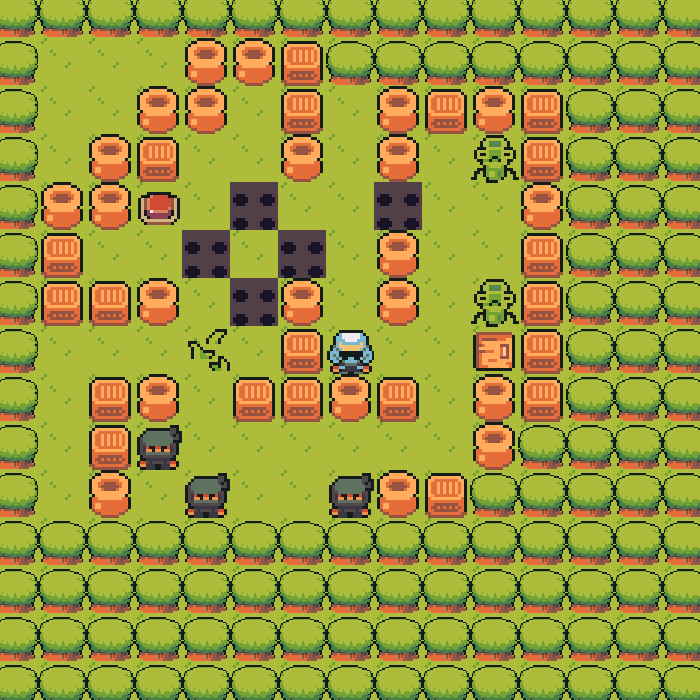
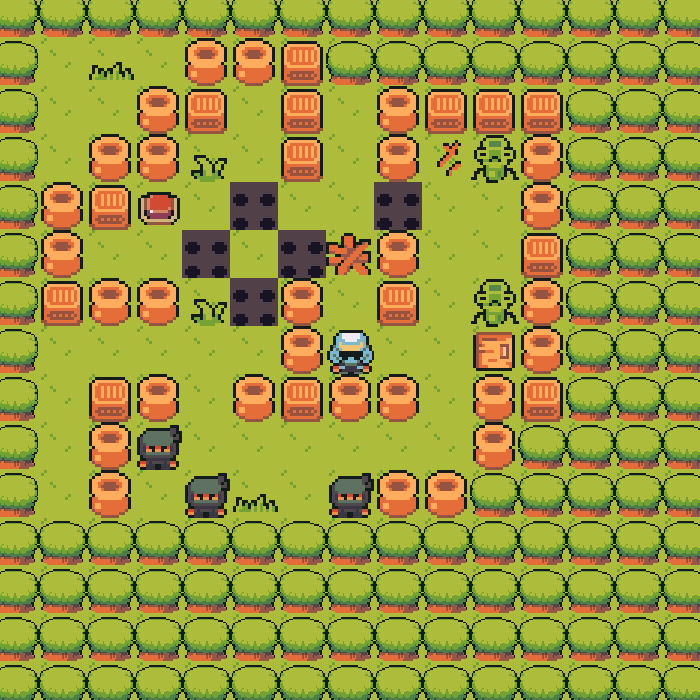
ladders

diff --git a/game.py b/game.py
@@ -17,6 +17,8 @@ import mixer as mx
 class Game:
     def __init__(self):
         pygame.init()
+        pygame.joystick.init()
+        self.joysticks = [pygame.joystick.Joystick(i) for i in range(pygame.joystick.get_count())]
         self.display = pygame.display
         self.display.set_caption('Samurai Storm')
         self.display.set_icon(pygame.image.load('Data/sprites/icon.png'))
@@ -67,6 +69,7 @@ class Game:
         self.indLevel = 0
 
     def run(self, name_level):
+        self.joysticks[0].init()
         self.enemies = []
         self.coordSpikes = []
         self.camera = Camera(self)
@@ -82,7 +85,7 @@ class Game:
         shurikenEventType = spikesEventType + 1
         pygame.time.set_timer(enemyEventType, 500)
         pygame.time.set_timer(spikesEventType, 500)
-        pygame.time.set_timer(shurikenEventType, 100)
+        pygame.time.set_timer(shurikenEventType, 200)
         self.level, self.player, self.enemies, self.coordSpikes, self.level_x, self.level_y = \
             functions.generate_level(level_list, self, False)
         # изменяем ракурс камеры
@@ -129,6 +132,17 @@ class Game:
                             if i.coord == self.player.coord:
                                 i.use()
                                 break
+                if event.type == pygame.JOYBUTTONDOWN:
+                    if event.button == 0:
+                        for i in self.ladders_group:
+                            if i.coord == self.player.coord:
+                                i.use()
+                                break
+                    if event.button == 7:
+                        if self.activeMenu:
+                            self.closeMenu()
+                        else:
+                            self.openMenu()
             # изменяем ракурс камеры
             self.camera.update(self.player)
             # обновляем положение всех спрайтов
@@ -171,6 +185,8 @@ class Game:
                 elif event.type == pygame.KEYDOWN or \
                         event.type == pygame.MOUSEBUTTONDOWN:
                     return  # начинаем игру
+                if event.type == pygame.JOYBUTTONDOWN or event.type == pygame.JOYHATMOTION:
+                    return
             pygame.display.flip()
             self.clock.tick(self.fps)
 
@@ -224,6 +240,17 @@ class Game:
                         self.rightBtn()
                     if event.key == pygame.K_LEFT:
                         self.leftBtn()
+                if event.type == pygame.JOYHATMOTION:
+                    x, y = self.joysticks[0].get_hat(0)
+                    if x == 1:
+                        self.rightBtn()
+                    if x == -1:
+                        self.leftBtn()
+                if event.type == pygame.JOYBUTTONDOWN:
+                    if event.button == 0:
+                        self.run(self.namesLevels[self.indLevel])
+                    if event.button == 7:
+                        self.menu()
             self.indLevel %= len(levels)
             for obj in levels[self.indLevel]:
                 obj.draw(self.screen)

diff --git a/player.py b/player.py
@@ -13,6 +13,29 @@ class Player(DynamicGameObject):
         self.killer = None  # Тот кто убил персонажа
 
     def update(self, *args):
+        if args and args[0].type == pygame.JOYHATMOTION:
+            x, y = self.game.joysticks[0].get_hat(0)
+            if y == 1:
+                if self.check(self.coord.x, self.coord.y - 1):
+                    self.rect.y -= self.game.tile_height
+                    self.coord.y -= 1
+                self.update_sprite(1)
+            if y == -1:
+                if self.check(self.coord.x, self.coord.y + 1):
+                    self.rect.y += self.game.tile_height
+                    self.coord.y += 1
+                self.update_sprite(0)
+            if x == 1:
+                if self.check(self.coord.x + 1, self.coord.y):
+                    self.rect.x += self.game.tile_width
+                    self.coord.x += 1
+                self.update_sprite(3)
+            if x == -1:
+                if self.check(self.coord.x - 1, self.coord.y):
+                    self.rect.x -= self.game.tile_width
+                    self.coord.x -= 1
+                self.update_sprite(2)
+            self.image = self.frames[self.cur_frame]
         if args and args[0].type == pygame.KEYDOWN:
             if args[0].key == pygame.K_UP:
                 if self.check(self.coord.x, self.coord.y - 1):
